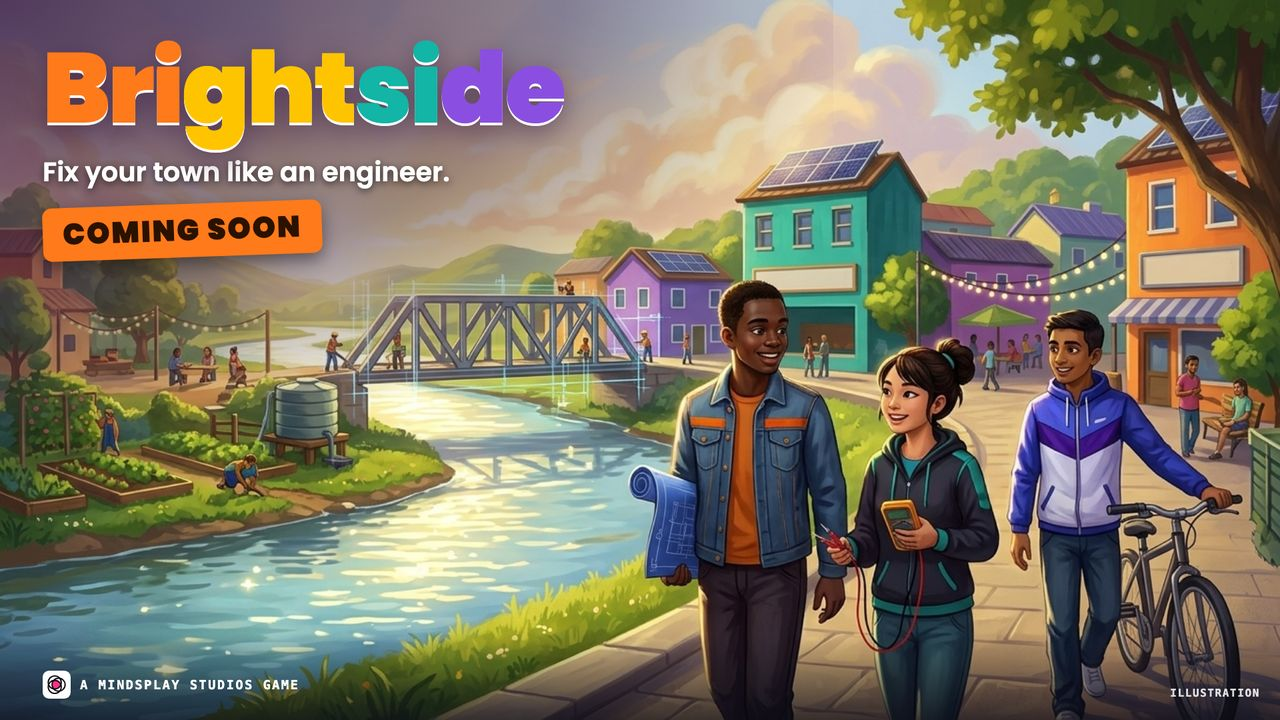
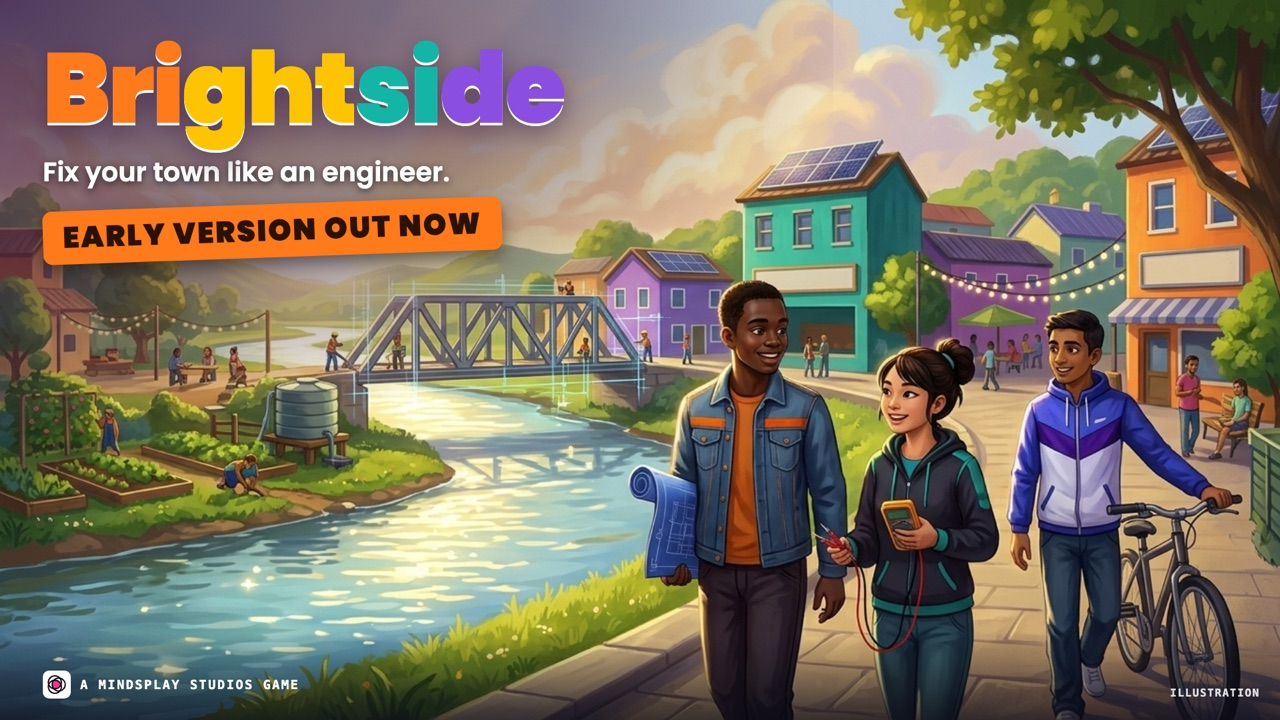
Brightside early version: browser demo, card and page; version tag on demo files

Changed region(s): [[0.0312, 0.275, 0.4062, 0.3667]]

diff --git a/brightside-play.html b/brightside-play.html
@@ -1,0 +1,101 @@
+<!doctype html>
+<html lang="en">
+<head>
+<meta charset="utf-8">
+<meta name="viewport" content="width=device-width, initial-scale=1, viewport-fit=cover">
+<title>Play the free demo · Brightside</title>
+<meta name="description" content="Play Brightside in your browser. Three friends explore a riverside town and fix real community problems the way engineers do: a footbridge, solar lights for the basketball court and rain harvesting for the garden. Three missions and a block-party finale, about 30 to 45 minutes. The first mission is free for everyone; sign in inside the game with your MindsPlay class code for all three.">
+<link rel="icon" href="img/icons/brightside.svg">
+<link rel="stylesheet" href="https://fonts.googleapis.com/css2?family=Baloo+2:wght@600;800&family=Lexend:wght@400;500;600&family=Silkscreen&display=swap">
+<link rel="stylesheet" href="app.css">
+<style>
+.stage { position:relative; width:100%; aspect-ratio:16/9; max-height:calc(100vh - 140px); background:#000 url(img/art-brightside.jpg) center/cover; border:4px solid var(--edge); border-radius:18px; overflow:hidden; margin-inline:auto }
+.stage canvas { width:100%; height:100%; display:block; background:transparent }
+.cover { position:absolute; inset:0; display:grid; place-content:center; justify-items:center; gap:16px; text-align:center; padding:24px; background:linear-gradient(0deg, rgba(4,22,31,.94), rgba(4,22,31,.6)) }
+.cover h1 { font-size:clamp(30px,5vw,54px) }
+.cover p { max-width:48ch; color:#DADAF5 }
+.meter { width:min(420px, 80vw); height:14px; background:var(--deep); border:2px solid var(--edge); border-radius:999px; overflow:hidden }
+.meter i { display:block; height:100%; width:0; background:linear-gradient(90deg,#46E0FF,#7CFFB2); transition:width .3s }
+.full { position:absolute; right:10px; top:10px; z-index:2; opacity:.85 }
+.keys { display:grid; grid-template-columns:repeat(auto-fit,minmax(170px,1fr)); gap:10px; margin:0; padding:0; list-style:none }
+.keys li { padding:10px 12px; border:2px solid var(--edge); border-radius:12px; font-size:14px }
+.keys b { display:block; font-size:15px }
+</style>
+<link rel="canonical" href="https://mindsplaystudiogh.com/brightside-play.html">
+<meta property="og:type" content="website">
+<meta property="og:site_name" content="MindsPlay Studios">
+<meta property="og:url" content="https://mindsplaystudiogh.com/brightside-play.html">
+<meta property="og:title" content="Play the free demo · Brightside">
+<meta property="og:description" content="Play Brightside in your browser. Three friends explore a riverside town and fix real community problems the way engineers do: a footbridge, solar lights for the basketball court and rain harvesting for the garden. Three missions and a block-party finale, about 30 to 45 minutes. The first mission is free for everyone; sign in inside the game with your MindsPlay class code for all three.">
+<meta property="og:image" content="https://mindsplaystudiogh.com/img/og-brightside.jpg">
+<meta property="og:image:width" content="1200">
+<meta property="og:image:height" content="630">
+<meta property="og:image:alt" content="Play the free demo · Brightside">
+<meta property="og:locale" content="en_GH">
+<meta name="twitter:card" content="summary_large_image">
+<meta name="twitter:title" content="Play the free demo · Brightside">
+<meta name="twitter:description" content="Play Brightside in your browser. Three friends explore a riverside town and fix real community problems the way engineers do: a footbridge, solar lights for the basketball court and rain harvesting for the garden. Three missions and a block-party finale, about 30 to 45 minutes. The first mission is free for everyone; sign in inside the game with your MindsPlay class code for all three.">
+<meta name="twitter:image" content="https://mindsplaystudiogh.com/img/og-brightside.jpg">
+</head>
+<body>
+<main class="wrap stack">
+  <div class="stack" style="gap:8px">
+    <span class="tag">Free demo · no download</span>
+    <h1>Play Brightside in your browser</h1>
+    <p class="lead">Three friends explore a riverside town and fix real community problems the way engineers do: a footbridge, solar lights for the basketball court and rain harvesting for the garden. Three missions and a block-party finale, about 30 to 45 minutes. The first mission is free for everyone; sign in inside the game with your MindsPlay class code for all three. Best on a laptop or desktop with a keyboard and mouse.</p>
+  </div>
+  <div class="stage" id="stage">
+    <canvas id="unity" tabindex="-1" aria-label="Brightside game"></canvas>
+    <div class="cover" id="cover">
+      <h1>Fix your town like an engineer.</h1>
+      <p id="covertext">Sound on! Talk to neighbours, look for clues, then design your fix on the blueprint table.</p>
+      <div class="meter" id="meter" hidden><i></i></div>
+      <button class="btn" id="start" type="button">▶ Play the free demo</button>
+      <p class="err" id="err" role="alert"></p>
+    </div>
+    <button class="btn ghost small full" id="fs" type="button" hidden>Full screen</button>
+  </div>
+  <ul class="keys">
+    <li><b>Move</b>WASD, Shift to run</li>
+    <li><b>Look</b>Mouse or arrow keys</li>
+    <li><b>Talk / inspect</b>E or Space</li>
+    <li><b>Switch friend</b>Tab or 1, 2, 3</li>
+    <li><b>Pause</b>Esc (P after full screen)</li>
+  </ul>
+  <div class="grid2">
+    <a class="card" href="brightside.html" style="text-decoration:none;color:inherit"><h3>Download Brightside</h3><p class="muted">Windows and Mac downloads are on the way. Until then, play it right here in your browser.</p></a>
+    <a class="card" href="brightside.html" style="text-decoration:none;color:inherit"><h3>About Brightside</h3><p class="muted">What it is, who it is for and what it teaches.</p></a>
+  </div>
+  <p class="small muted">This is an early demo and we are still building. Tell us what you think: <a href="mailto:hello@mindsplaystudiogh.com?subject=Brightside">hello@mindsplaystudiogh.com</a></p>
+</main>
+<script src="app.js"></script>
+<script>
+topBar('<a href="brightside.html" class="hide-sm">About Brightside</a><a href="brightside.html">Download</a><a href="index.html#games">All games</a>', 'Brightside');
+const BUILD = API + '/play/brightside/Build/';
+// Changes with every new build so browsers never reuse an old copy of the game files.
+const V = '?v=202611270210';
+const mobile = /Android|iPhone|iPad|iPod/i.test(navigator.userAgent);
+if (mobile) $('#covertext').textContent = 'Brightside is made for computers. On a phone the demo may be slow and needs a keyboard. For the best time, open this page on a laptop or desktop.';
+
+let instance;
+$('#start').addEventListener('click', () => {
+  $('#start').hidden = true;
+  $('#meter').hidden = false;
+  $('#covertext').textContent = 'Loading Brightside… (about 69 MB the first time, then it’s saved)';
+  const s = document.createElement('script');
+  s.src = BUILD + 'brightside.loader.js' + V;
+  s.onerror = () => { $('#err').textContent = 'The demo couldn’t load. Check your connection and refresh the page.'; };
+  s.onload = () => createUnityInstance($('#unity'), {
+    dataUrl: BUILD + 'brightside.data.br' + V,
+    frameworkUrl: BUILD + 'brightside.framework.js.br' + V,
+    codeUrl: BUILD + 'brightside.wasm.br' + V,
+    companyName: 'MindsPlay Studios', productName: 'Brightside', productVersion: '0.1',
+  }, p => { $('#meter i').style.width = Math.round(p * 100) + '%'; })
+    .then(u => { instance = u; $('#cover').hidden = true; $('#fs').hidden = false; $('#unity').focus(); })
+    .catch(e => { $('#err').textContent = 'The demo couldn’t start on this device: ' + e; });
+  document.body.append(s);
+});
+$('#fs').addEventListener('click', () => instance && instance.SetFullscreen(1));
+</script>
+</body>
+</html>

diff --git a/index.html b/index.html
@@ -306,7 +306,7 @@ canvas#fx { position:fixed; inset:0; pointer-events:none; z-index:40 }
       <div class="art reel" id="reel"><img class="on" src="img/xed-key.jpg" alt="" style="object-position:78% 50%"><img src="img/art-graned.jpg" alt="" style="object-position:72% 60%"><img src="img/art-inkbound.jpg" alt="" style="object-position:100% 72%"><img src="img/art-sworld.jpg" alt="" style="object-position:66% 60%"><img src="img/art-brightside.jpg" alt="" style="object-position:62% 60%"><img src="img/art-lamplight.jpg" alt="" style="object-position:82% 60%"></div>
       <div class="float f1"><span>Free 14 Dec – 4 Jan</span><b>Xed</b></div>
       <div class="float f2"><span>Ages 6–14 · Play now</span><b>GranED Prix</b></div>
-      <div class="float f3"><span>Ages 13–17 · Soon</span><b>Brightside</b></div>
+      <div class="float f3"><span>Ages 13–17 · Play now</span><b>Brightside</b></div>
     </div>
   </div>
 </section>
@@ -353,8 +353,8 @@ canvas#fx { position:fixed; inset:0; pointer-events:none; z-index:40 }
   <div class="wrap">
     <div class="head">
       <span class="mono eyebrow">Game library</span>
-      <h2>Five games to play now. One on the way.</h2>
-      <p>Xed is out, four more have early versions you can play today, and Brightside is close behind. Every one is free to play from 14 December to 4 January. Hype the one you want first.</p>
+      <h2>Six games to play now.</h2>
+      <p>Xed is out, and five more have early versions you can play today in your browser. Every one is free to play from 14 December to 4 January. Hype the one you want first.</p>
     </div>
     <div class="lineup" id="lineup">
       <article class="gcard feature">
@@ -398,13 +398,13 @@ canvas#fx { position:fixed; inset:0; pointer-events:none; z-index:40 }
         </div>
       </article>
       <article class="gcard half">
-        <div class="gart"><img src="img/g-brightside.jpg" alt="Brightside: three teen friends walk by a river in a colourful town. Coming soon." loading="lazy"></div>
+        <div class="gart"><img src="img/g-brightside.jpg" alt="Brightside: three teen friends walk by a river in a colourful town. Early version out now." loading="lazy"></div>
         <div class="gbody">
-          <div class="meta"><span class="soon">Coming soon</span><span>Ages 13–17</span><span>Open world</span></div>
+          <div class="meta"><span class="live">Early version</span><span>Ages 13–17</span><span>Open world</span><span>Browser</span></div>
           <h3>Brightside</h3>
           <p>Three friends roam a sunny riverside town and fix real problems the way engineers do. Design a bridge, power the lights, bring water to a garden, then watch the town change.</p>
           <p class="skills">Builds: structures, energy, water, budgeting, the engineering design process.</p>
-          <div class="row"><a class="more" href="brightside.html">Know more <span aria-hidden="true">→</span></a><button class="hype" type="button" data-game="brightside" aria-pressed="false">Hype it</button></div>
+          <div class="row"><a class="btn pink" href="brightside-play.html"><span class="tri"></span>Play free in your browser</a><a class="more" href="brightside.html">Know more <span aria-hidden="true">→</span></a><button class="hype" type="button" data-game="brightside" aria-pressed="false">Hype it</button></div>
         </div>
       </article>
       <article class="gcard half wide">
@@ -617,7 +617,7 @@ function showStage(i, user) {
   $("sname").textContent = s.n + ", ages " + s.r; $("sclass").textContent = s.c; $("sdesc").textContent = s.d;
   Object.values(s.s).forEach((v, j) => { const row = $("sstats").children[j]; row.querySelector("i").style.width = v + "%"; row.querySelector("b").textContent = v; });
   $("slife").innerHTML = s.life.map(l => `<span>${l}</span>`).join("");
-  $("sgames").innerHTML = "Games: " + s.g.map(g => `<span class="gtag" style="background:${GAMECOL[g][0]};color:${GAMECOL[g][1]}">${g}${g === "Xed" ? "" : g === "Sworld" ? " · demo" : g === "Lamplight" || g === "GranED Prix" || g === "Inkbound" ? "" : " · soon"}</span>`).join("");
+  $("sgames").innerHTML = "Games: " + s.g.map(g => `<span class="gtag" style="background:${GAMECOL[g][0]};color:${GAMECOL[g][1]}">${g}${g === "Xed" ? "" : g === "Sworld" ? " · demo" : g === "Lamplight" || g === "GranED Prix" || g === "Inkbound" || g === "Brightside" ? "" : " · soon"}</span>`).join("");
   if (user) { seen.add(i); store.set("stages", [...seen]); renderHud(); if (seen.size === 4) complete("grow"); }
 }
 $("ages").addEventListener("click", e => { const b = e.target.closest(".age"); if (b) showStage([...$("ages").children].indexOf(b), true); });

diff --git a/brightside.html b/brightside.html
@@ -212,7 +212,7 @@ footer a { text-decoration:none } footer a:hover { text-decoration:underline }
 <meta name="twitter:title" content="Brightside: engineering game for teens | MindsPlay Studios">
 <meta name="twitter:description" content="Brightside: an open-world game for ages 13 to 17. Three friends fix a bridge, a basketball court and a community garden the way engineers do. A MindsPlay Studios game.">
 <meta name="twitter:image" content="https://mindsplaystudiogh.com/img/og-brightside.jpg">
-<script type="application/ld+json">{"@context": "https://schema.org", "@type": "VideoGame", "name": "Brightside", "url": "https://mindsplaystudiogh.com/brightside.html", "image": "https://mindsplaystudiogh.com/img/og-brightside.jpg", "description": "Brightside: an open-world game for ages 13 to 17. Three friends fix a bridge, a basketball court and a community garden the way engineers do. A MindsPlay Studios game.", "genre": ["Educational", "Engineering"], "about": "Engineering", "inLanguage": "en", "typicalAgeRange": "13-17", "audience": {"@type": "PeopleAudience", "suggestedMinAge": 13, "suggestedMaxAge": 17}, "publisher": {"@type": "Organization", "name": "MindsPlay Studios", "url": "https://mindsplaystudiogh.com/"}, "creativeWorkStatus": "In development"}</script>
+<script type="application/ld+json">{"@context": "https://schema.org", "@type": "VideoGame", "name": "Brightside", "url": "https://mindsplaystudiogh.com/brightside.html", "image": "https://mindsplaystudiogh.com/img/og-brightside.jpg", "description": "Brightside: an open-world game for ages 13 to 17. Three friends fix a bridge, a basketball court and a community garden the way engineers do. A MindsPlay Studios game.", "genre": ["Educational", "Engineering"], "about": "Engineering", "inLanguage": "en", "typicalAgeRange": "13-17", "audience": {"@type": "PeopleAudience", "suggestedMinAge": 13, "suggestedMaxAge": 17}, "publisher": {"@type": "Organization", "name": "MindsPlay Studios", "url": "https://mindsplaystudiogh.com/"}, "creativeWorkStatus": "In development", "gamePlatform": ["Web browser"]}</script>
 </head>
 <body>
 
@@ -236,7 +236,8 @@ footer a { text-decoration:none } footer a:hover { text-decoration:underline }
     <p class="lead">Three friends roam a sunny riverside town, spot real problems and fix them the way engineers do. Design a bridge, power the court lights, bring water to a garden, then watch the town change.</p>
     <span class="status" id="status" role="status" hidden></span>
     <div class="ctas">
-      <a class="btn primary" href="player.html#new">Make my player account</a>
+      <a class="btn primary" href="brightside-play.html">Play free in your browser</a>
+      <a class="btn ghost" href="player.html#new">Make my player account</a>
       <a class="btn ghost" href="account.html">Add it to your child's games</a>
     </div>
     <div class="facts"><span><b>13–17</b>ages</span><span><b>3</b>friends to play as</span><span><b>3</b>missions and a finale</span><span><b>0</b>quiz pop-ups</span></div>
@@ -382,7 +383,7 @@ footer a { text-decoration:none } footer a:hover { text-decoration:underline }
     <div class="join">
       <h2>Ready to fix your town?</h2>
       <p>Make your player account, or add Brightside to your child's games from your family account.</p>
-      <div class="ctas"><a class="btn light" href="player.html#new">Make my player account</a><a class="btn ghost" href="account.html">Add it to your child's games</a></div>
+      <div class="ctas"><a class="btn light" href="brightside-play.html">Play free in your browser</a><a class="btn ghost" href="player.html#new">Make my player account</a><a class="btn ghost" href="account.html">Add it to your child's games</a></div>
     </div>
   </div>
 </section>
@@ -414,6 +415,7 @@ fetch(API + "/v1/games").then(r => r.ok ? r.json() : Promise.reject(r.status)).t
   const g = (d.games || d || []).find(x => x.id === "brightside"); if (!g) return;
   const s = $("status");
   if (g.status === "live") { s.textContent = "Out now"; s.classList.add("live"); s.hidden = false; }
+  else if (g.status === "beta") { s.textContent = "Early version · play it now"; s.classList.add("live"); s.hidden = false; }
   else if (g.status === "coming_soon") { s.textContent = "Coming soon · add it to your list today"; s.hidden = false; }
 }).catch(() => {});
 

diff --git a/lamplight-play.html b/lamplight-play.html
@@ -72,6 +72,8 @@
 <script>
 topBar('<a href="lamplight.html" class="hide-sm">About Lamplight</a><a href="lamplight-download.html?from=play">Download</a><a href="index.html#games">All games</a>', 'Lamplight');
 const BUILD = API + '/play/lamplight/Build/';
+// Changes with every new build so browsers never reuse an old copy of the game files.
+const V = '?v=202611270210';
 const mobile = /Android|iPhone|iPad|iPod/i.test(navigator.userAgent);
 if (mobile) $('#covertext').textContent = 'Lamplight is made for computers. On a phone the demo may be slow and needs a keyboard. For the best time, open this page on a laptop or desktop.';
 
@@ -81,12 +83,12 @@ $('#start').addEventListener('click', () => {
   $('#meter').hidden = false;
   $('#covertext').textContent = 'Loading Lamplight… (about 87 MB the first time, then it’s saved)';
   const s = document.createElement('script');
-  s.src = BUILD + 'lamplight.loader.js';
+  s.src = BUILD + 'lamplight.loader.js' + V;
   s.onerror = () => { $('#err').textContent = 'The demo couldn’t load. Check your connection and refresh the page.'; };
   s.onload = () => createUnityInstance($('#unity'), {
-    dataUrl: BUILD + 'lamplight.data.br',
-    frameworkUrl: BUILD + 'lamplight.framework.js.br',
-    codeUrl: BUILD + 'lamplight.wasm.br',
+    dataUrl: BUILD + 'lamplight.data.br' + V,
+    frameworkUrl: BUILD + 'lamplight.framework.js.br' + V,
+    codeUrl: BUILD + 'lamplight.wasm.br' + V,
     companyName: 'MindsPlay Studios', productName: 'Lamplight', productVersion: '0.1',
   }, p => { $('#meter i').style.width = Math.round(p * 100) + '%'; })
     .then(u => { instance = u; $('#cover').hidden = true; $('#fs').hidden = false; $('#unity').focus(); })

diff --git a/inkbound-play.html b/inkbound-play.html
@@ -72,6 +72,8 @@
 <script>
 topBar('<a href="inkbound.html" class="hide-sm">About Inkbound</a><a href="inkbound-download.html?from=play">Download</a><a href="index.html#games">All games</a>', 'Inkbound');
 const BUILD = API + '/play/inkbound/Build/';
+// Changes with every new build so browsers never reuse an old copy of the game files.
+const V = '?v=202611270210';
 const mobile = /Android|iPhone|iPad|iPod/i.test(navigator.userAgent);
 if (mobile) $('#covertext').textContent = 'Inkbound is made for computers. On a phone the demo may be slow and needs a keyboard. For the best time, open this page on a laptop or desktop.';
 
@@ -81,12 +83,12 @@ $('#start').addEventListener('click', () => {
   $('#meter').hidden = false;
   $('#covertext').textContent = 'Loading Inkbound… (about 14 MB the first time, then it’s saved)';
   const s = document.createElement('script');
-  s.src = BUILD + 'inkbound.loader.js';
+  s.src = BUILD + 'inkbound.loader.js' + V;
   s.onerror = () => { $('#err').textContent = 'The demo couldn’t load. Check your connection and refresh the page.'; };
   s.onload = () => createUnityInstance($('#unity'), {
-    dataUrl: BUILD + 'inkbound.data.br',
-    frameworkUrl: BUILD + 'inkbound.framework.js.br',
-    codeUrl: BUILD + 'inkbound.wasm.br',
+    dataUrl: BUILD + 'inkbound.data.br' + V,
+    frameworkUrl: BUILD + 'inkbound.framework.js.br' + V,
+    codeUrl: BUILD + 'inkbound.wasm.br' + V,
     companyName: 'MindsPlay Studios', productName: 'Inkbound', productVersion: '0.1',
   }, p => { $('#meter i').style.width = Math.round(p * 100) + '%'; })
     .then(u => { instance = u; $('#cover').hidden = true; $('#fs').hidden = false; $('#unity').focus(); })

diff --git a/graned-play.html b/graned-play.html
@@ -72,6 +72,8 @@
 <script>
 topBar('<a href="graned.html" class="hide-sm">About GranED Prix</a><a href="graned-download.html?from=play">Download</a><a href="index.html#games">All games</a>', 'GranED Prix');
 const BUILD = API + '/play/graned/Build/';
+// Changes with every new build so browsers never reuse an old copy of the game files.
+const V = '?v=202611270210';
 const mobile = /Android|iPhone|iPad|iPod/i.test(navigator.userAgent);
 if (mobile) $('#covertext').textContent = 'GranED Prix is made for computers. On a phone the demo may be slow and needs a keyboard. For the best time, open this page on a laptop or desktop.';
 
@@ -81,12 +83,12 @@ $('#start').addEventListener('click', () => {
   $('#meter').hidden = false;
   $('#covertext').textContent = 'Loading GranED Prix… (about 71 MB the first time, then it’s saved)';
   const s = document.createElement('script');
-  s.src = BUILD + 'graned.loader.js';
+  s.src = BUILD + 'graned.loader.js' + V;
   s.onerror = () => { $('#err').textContent = 'The demo couldn’t load. Check your connection and refresh the page.'; };
   s.onload = () => createUnityInstance($('#unity'), {
-    dataUrl: BUILD + 'graned.data.br',
-    frameworkUrl: BUILD + 'graned.framework.js.br',
-    codeUrl: BUILD + 'graned.wasm.br',
+    dataUrl: BUILD + 'graned.data.br' + V,
+    frameworkUrl: BUILD + 'graned.framework.js.br' + V,
+    codeUrl: BUILD + 'graned.wasm.br' + V,
     companyName: 'MindsPlay Studios', productName: 'GranED Prix', productVersion: '0.1',
   }, p => { $('#meter i').style.width = Math.round(p * 100) + '%'; })
     .then(u => { instance = u; $('#cover').hidden = true; $('#fs').hidden = false; $('#unity').focus(); })

diff --git a/sworld-play.html b/sworld-play.html
@@ -72,6 +72,8 @@
 <script>
 topBar('<a href="sworld.html" class="hide-sm">About Sworld</a><a href="sworld-download.html?from=play">Download</a><a href="index.html#games">All games</a>', 'Sworld');
 const BUILD = API + '/play/sworld/Build/';
+// Changes with every new build so browsers never reuse an old copy of the game files.
+const V = '?v=202611270210';
 const mobile = /Android|iPhone|iPad|iPod/i.test(navigator.userAgent);
 if (mobile) $('#covertext').textContent = 'Sworld is made for computers. On a phone the demo may be slow and needs a keyboard or gamepad. For the best fight, open this page on a laptop or desktop.';
 
@@ -81,12 +83,12 @@ $('#start').addEventListener('click', () => {
   $('#meter').hidden = false;
   $('#covertext').textContent = 'Loading the Reactive Marsh… (about 42 MB the first time, then it’s saved)';
   const s = document.createElement('script');
-  s.src = BUILD + 'sworld.loader.js';
+  s.src = BUILD + 'sworld.loader.js' + V;
   s.onerror = () => { $('#err').textContent = 'The demo couldn’t load. Check your connection and refresh the page.'; };
   s.onload = () => createUnityInstance($('#unity'), {
-    dataUrl: BUILD + 'sworld.data.br',
-    frameworkUrl: BUILD + 'sworld.framework.js.br',
-    codeUrl: BUILD + 'sworld.wasm.br',
+    dataUrl: BUILD + 'sworld.data.br' + V,
+    frameworkUrl: BUILD + 'sworld.framework.js.br' + V,
+    codeUrl: BUILD + 'sworld.wasm.br' + V,
     companyName: 'MindsPlay Studios', productName: 'Sworld', productVersion: '0.1',
   }, p => { $('#meter i').style.width = Math.round(p * 100) + '%'; })
     .then(u => { instance = u; $('#cover').hidden = true; $('#fs').hidden = false; $('#unity').focus(); })

diff --git a/inkbound-download.html b/inkbound-download.html
@@ -44,7 +44,7 @@
     </div>
     <div class="card">
       <h2>Mac</h2>
-      <p class="muted">macOS 11 or newer, Apple silicon or Intel. About 52 MB.</p>
+      <p class="muted">macOS 12 or newer, Apple silicon or Intel. About 52 MB.</p>
       <a class="btn" id="mac" href="#">Download for Mac</a>
       <ol class="small muted" style="margin:0;padding-left:20px">
         <li>Open <b>Inkbound-Mac.zip</b> and drag <b>Inkbound</b> into Applications.</li>
